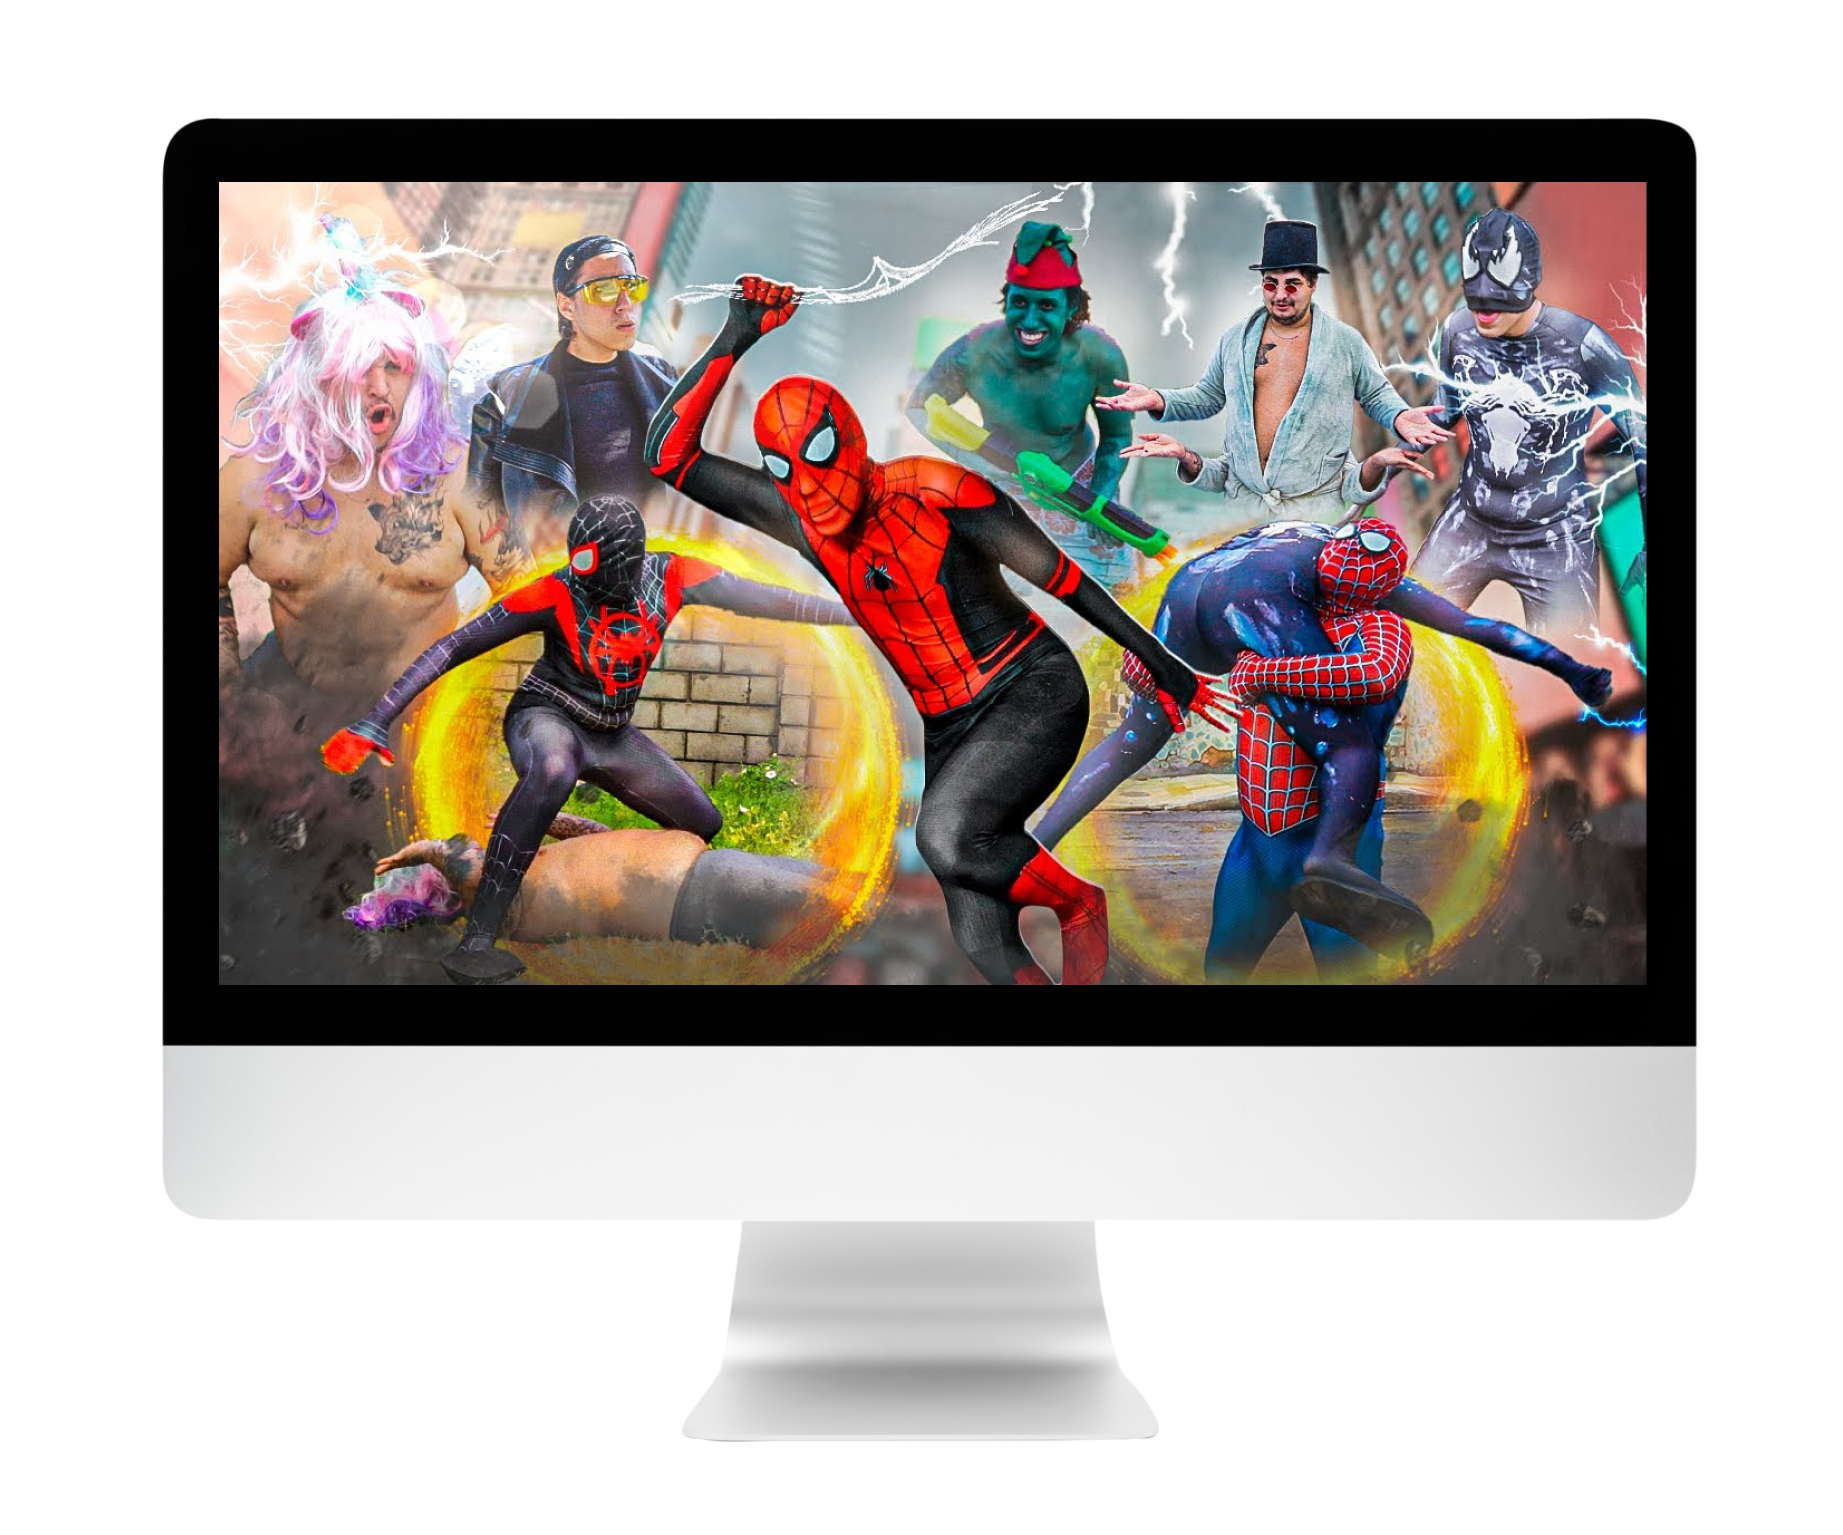
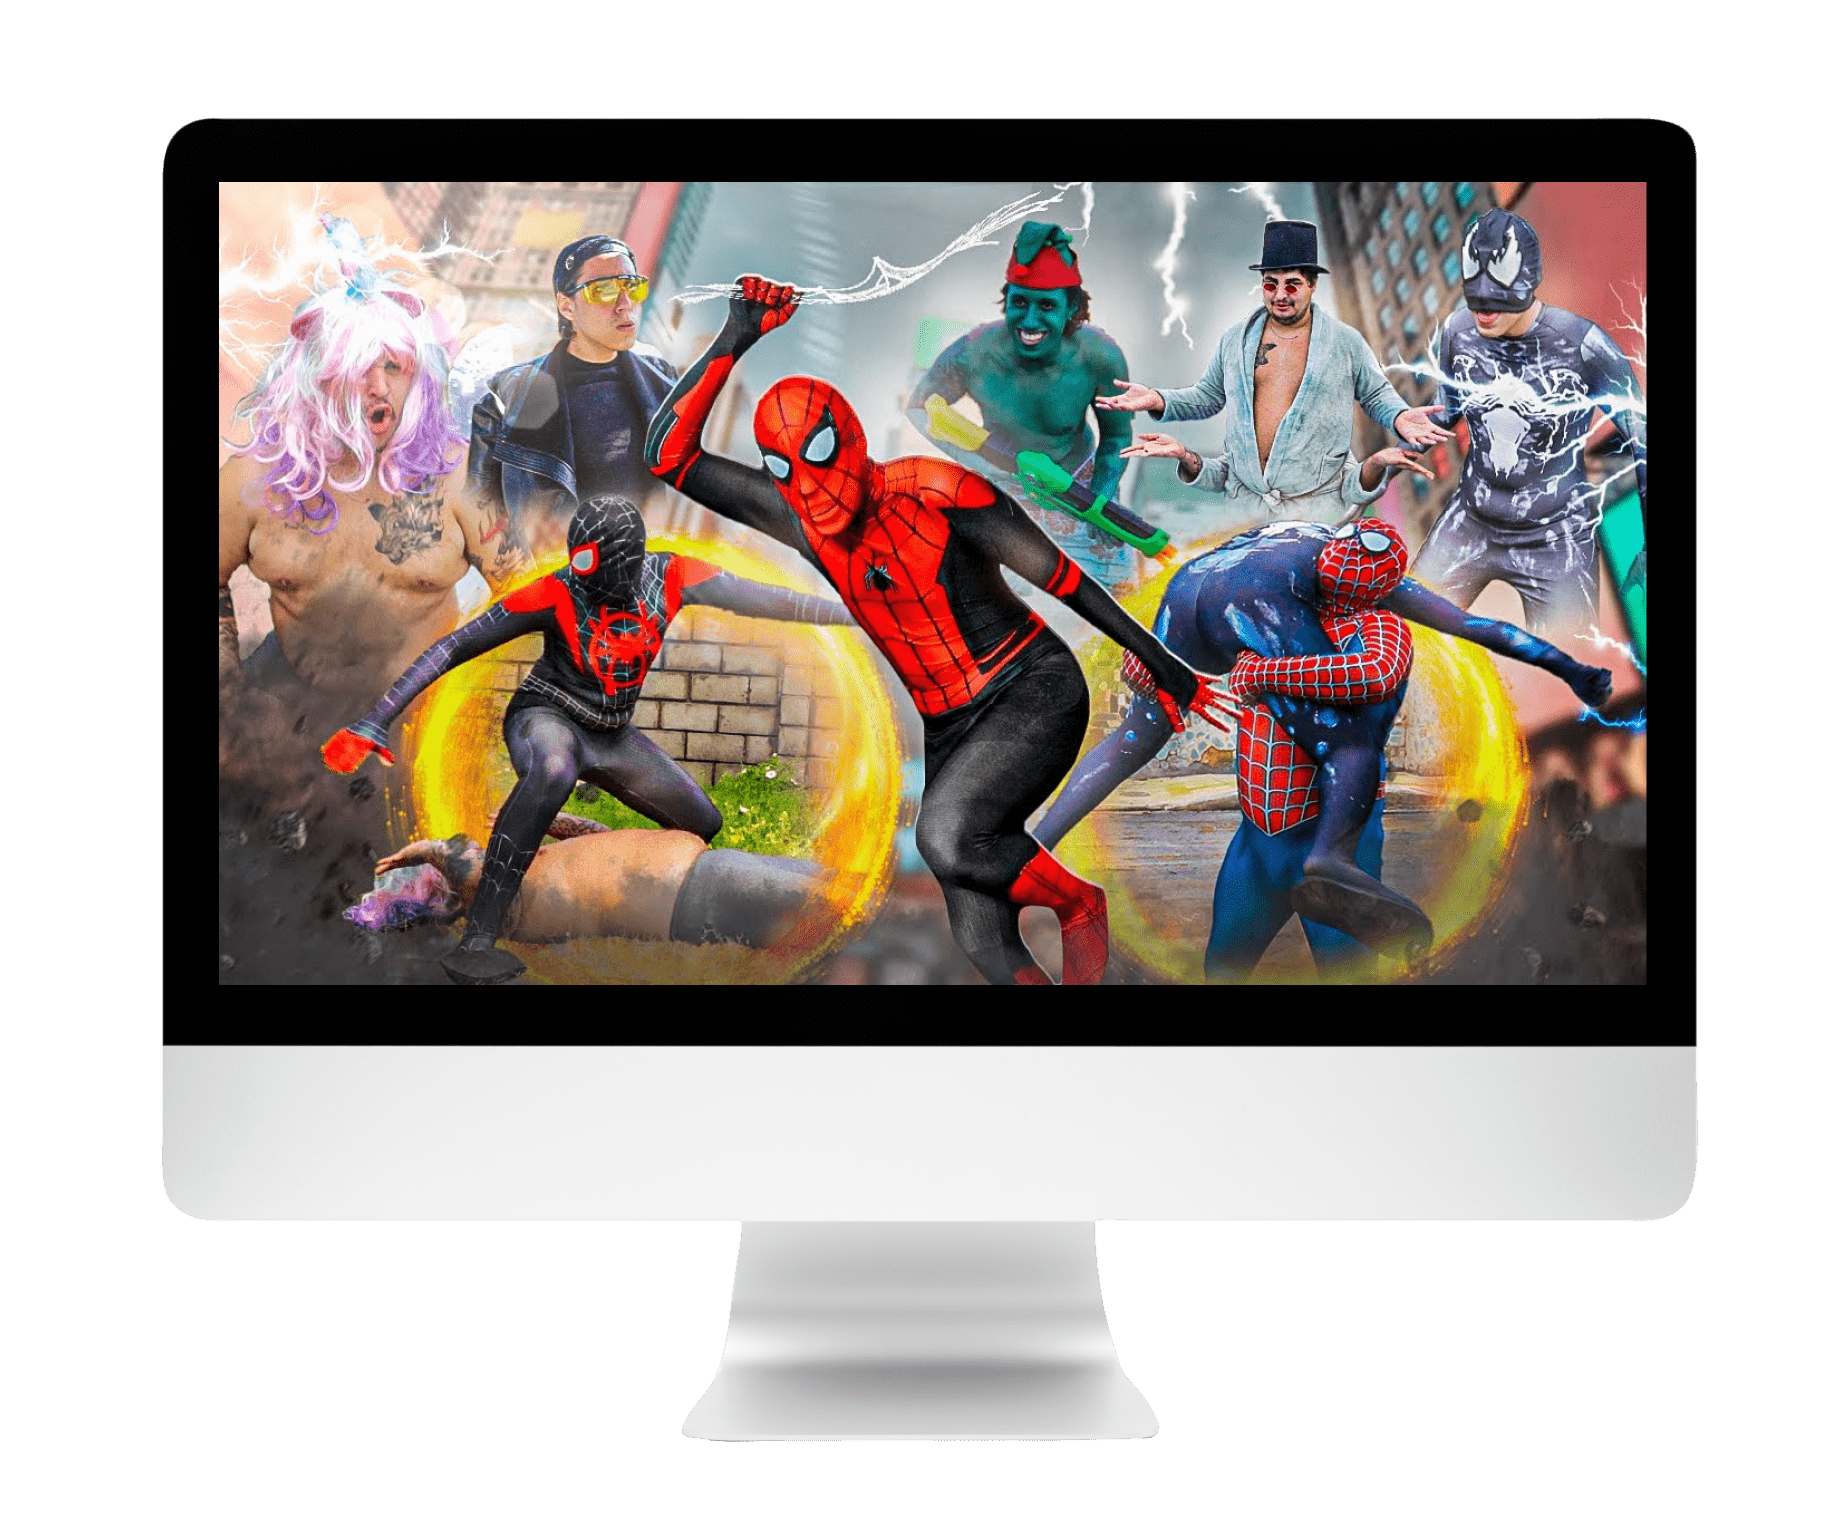
optimized images

diff --git a/src/app/app.component.ts b/src/app/app.component.ts
@@ -45,16 +45,6 @@ export class AppComponent implements OnInit {
     },
   ];
 
-  // '../assets/images/influencers/1.png',
-  // '../assets/images/influencers/2.png',
-  // '../assets/images/influencers/3.png',
-  // '../assets/images/influencers/4.png',
-  // '../assets/images/influencers/5.png',
-  // '../assets/images/influencers/6.png',
-  // '../assets/images/influencers/7.png',
-  // '../assets/images/influencers/8.png',
-  // '../assets/images/influencers/9.png',
-
   // slider
 
   slider: string[] = [

diff --git a/src/app/app.component.html b/src/app/app.component.html
@@ -279,6 +279,7 @@
           [src]="schoolSlider[schoolCount]"
           alt=""
         />
+        
         <img
           (click)="nextSchool()"
           class="w-10 animate-pulse sm:w-16 cursor-pointer"
